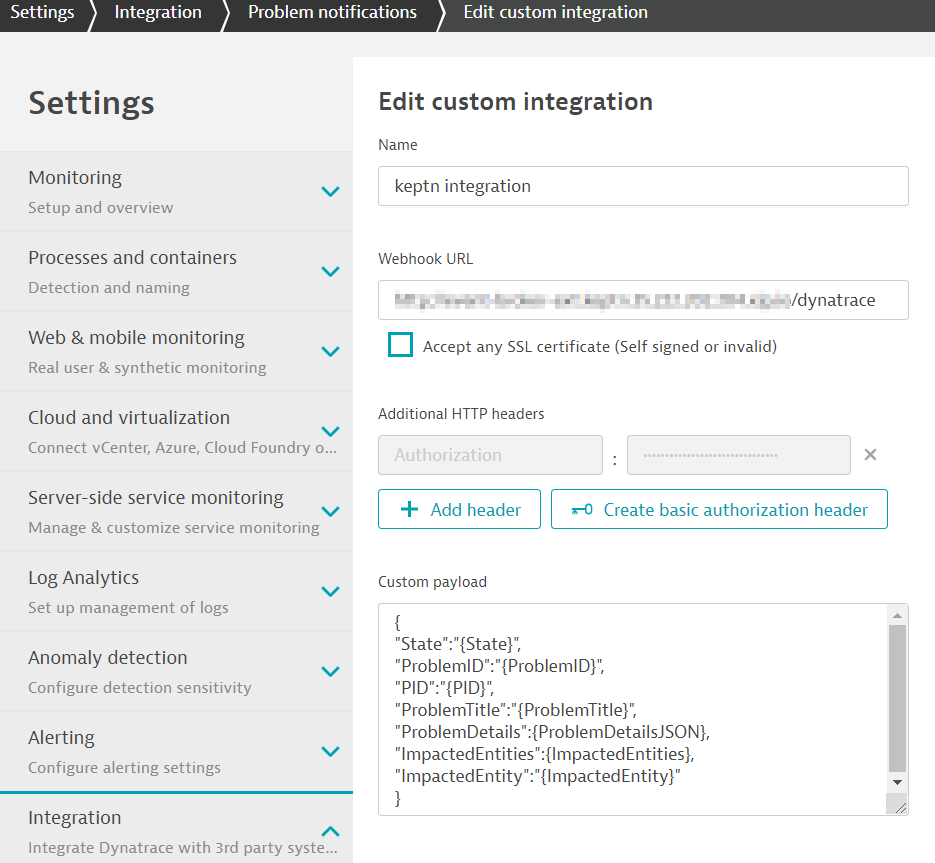
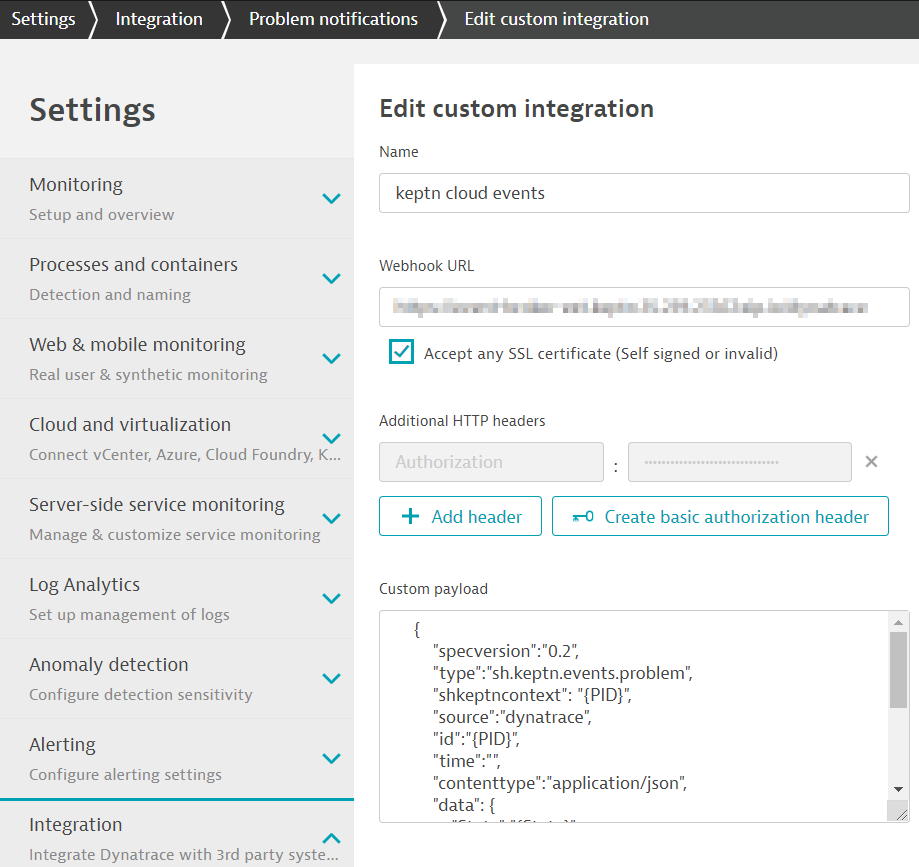
servicenow integration

diff --git a/content/docs/0.2.0/usecases/runbook-automation-and-self-healing/index.md b/content/docs/0.2.0/usecases/runbook-automation-and-self-healing/index.md
@@ -38,13 +38,14 @@ kubectl -n keptn create secret generic servicenow --from-literal="tenant=xxx" --
 A ServiceNow Update Set is provided to run this use case. To install the Update Set follow these steps:
 
 1. Login to your ServiceNow instance.
-1. Search for `update` in the left search box and navigate to **Update Sets to Commit** 
+1. Search for _update set_ in the left search box and navigate to **Update Sets to Commit** 
     {{< popup_image
     link="./assets/service-now-update-set-overview.png"
     caption="Service Now Update Set">}}
 
 1. Click on **Import Update Set from XML** 
-1. Import the file from this URL: `https://raw.githubusercontent.com/keptn/servicenow-service/master/demo/remediationworkflow-updateset.xml`
+
+1. Import the file from this URL: https://raw.githubusercontent.com/keptn/keptn.github.io/docs-v0.2/content/docs/0.2.0/usecases/runbook-automation-and-self-healing/scripts/keptn_demo_remediation_updateset.xml TODO update URL
 
 1. Open the Update Set
     {{< popup_image
@@ -56,14 +57,23 @@ A ServiceNow Update Set is provided to run this use case. To install the Update 
     link="./assets/service-now-update-set-commit.png"
     caption="Service Now Update Set Commit">}}
 
-1. After importing, navigate to **Workflow Versions** by typing this as a search term into the upper left search box.
+1. After importing, enter **keptn** as the search term into the upper left search box.
+    {{< popup_image 
+    link="./assets/service-now-keptn-creds.png"
+    caption="ServiceNow keptn credentials">}}
+1. Click on **New** and enter your Dynatrace API token as well as your Dynatrace tenant ID.
 
-1. add credentials and remediation url in the table
-
-1. Find the `keptn-carts-remediation` workflow.
-
-1. **TODO add instructions if changes to workflow have to be made**
-
+1. _(Optional)_ You can also take a look at the predefined workflow that is able to handle Dynatrace problem notifications and remediate issues.
+    - Navigate to the workflow editor by typing **Workflow Editor** and clicking on the item **Workflow -> Workflow Editor**
+    - The workflow editor is opened in a new window/tab
+    - Search for the workflow **keptn_demo_remediation** (it might as well be on the second or third page)
+    {{< popup_image 
+    link="./assets/service-now-workflow-list.png"
+    caption="ServiceNow keptn workflow">}}
+    - Open the workflow by clicking on it. It will look similar to the following image. By clicking on the workflow notes you can further investigate each step of the workflow.
+    {{< popup_image 
+    link="./assets/service-now-keptn-workflow.png"
+    caption="ServiceNow keptn workflow">}}
 
 ## Setup a Dynatrace Problem Notification
 
@@ -73,11 +83,21 @@ In order to create incidents in ServiceNow and to trigger workflows, an integrat
 1. Navigate to **Settings -> Integration -> Problem Notifications**
 1. Click on **Set up notifications** and select **Custom Notification**
 1. Choose a name for your integration, e.g., _keptn integration_
-1. In the webhook URL, paste the value of your keptn endpoint appended by `/dynatrace`, e.g., `https://control.keptn.XX.XXX.XXX.XX.xip.io/dynatrace`
-1. Additionally, a Authorization Header is needed to authorize against the keptn server. 
+1. In the webhook URL, paste the value of your keptn external eventbroker endpoint appended by `/dynatrace`, e.g., `https://event-broker-ext.keptn.XX.XXX.XXX.XX.xip.io/dynatrace`
+    - Note: retrieve the base URL by running:
+
+    ```
+    kubectl get ksvc event-broker-ext -n keptn
+    ```
+    Please click the checkbox **Accept any SSL certificate**
+1. Additionally, an Authorization Header is needed to authorize against the keptn server. 
     - Click on **Add header**
     - The name for the header is: `Authorization`
-    - The value has to be set to the following: `Bearer KEPTN_API_TOKEN` where KEPTN_API_TOKEN has to be replaced with your actual Api Token that was received during installation. You can always retrieve the token again by executing `kubectl get secret keptn-api-token -n keptn -o=yaml | yq - r data.keptn-api-token | base64 --decode` from a shell/bash. 
+    - The value has to be set to the following: `Bearer KEPTN_API_TOKEN` where KEPTN_API_TOKEN has to be replaced with your actual Api Token that was received during installation. You can always retrieve the token again by executing:
+
+    ```
+    kubectl get secret keptn-api-token -n keptn -o=yaml | yq - r data.keptn-api-token | base64 --decode
+    ```
 
 1. As the custom payload, a valid Cloud Event has to be defined:
 
@@ -85,7 +105,7 @@ In order to create incidents in ServiceNow and to trigger workflows, an integrat
     {
         "specversion":"0.2",
         "type":"sh.keptn.events.problem",
-        "shkeptncontext": "{PID}",
+        "shkeptncontext":"{PID}",
         "source":"dynatrace",
         "id":"{PID}",
         "time":"",
@@ -108,7 +128,16 @@ In order to create incidents in ServiceNow and to trigger workflows, an integrat
 
 ## Run the Use Case
 
+Now that all pieces are in place we can run the use case. Therefore, we will start by generating some load on the `carts` service in our production environment. Afterwards we will change configuration of this service at runtime. This will cause some troubles in our production environment, Dynatrace will detect the issue and will create a problem ticket. Thanks to the problem notification we just set up, keptn will be informed about the problem and will forward it to the ServiceNow service that in turn creates an incident in ServiceNow. This incident will trigger a workflow that is able to remediate the issue at runtime. Along the remediation, comments and details on configuration changes are posted to Dynatrace.
+
 ### Load generation
+
+1. Download the script provided for the load generation: https://raw
+1. Run the script 
+    ```
+    ./add-to-cart.sh "carts.production.$(kubectl get svc istio-ingressgateway -n istio-system -o yaml | yq - r status.loadBalancer.ingress[0].ip).xip.io"
+    ```
+1. 
 
 ### Configuration change at runtime
 
